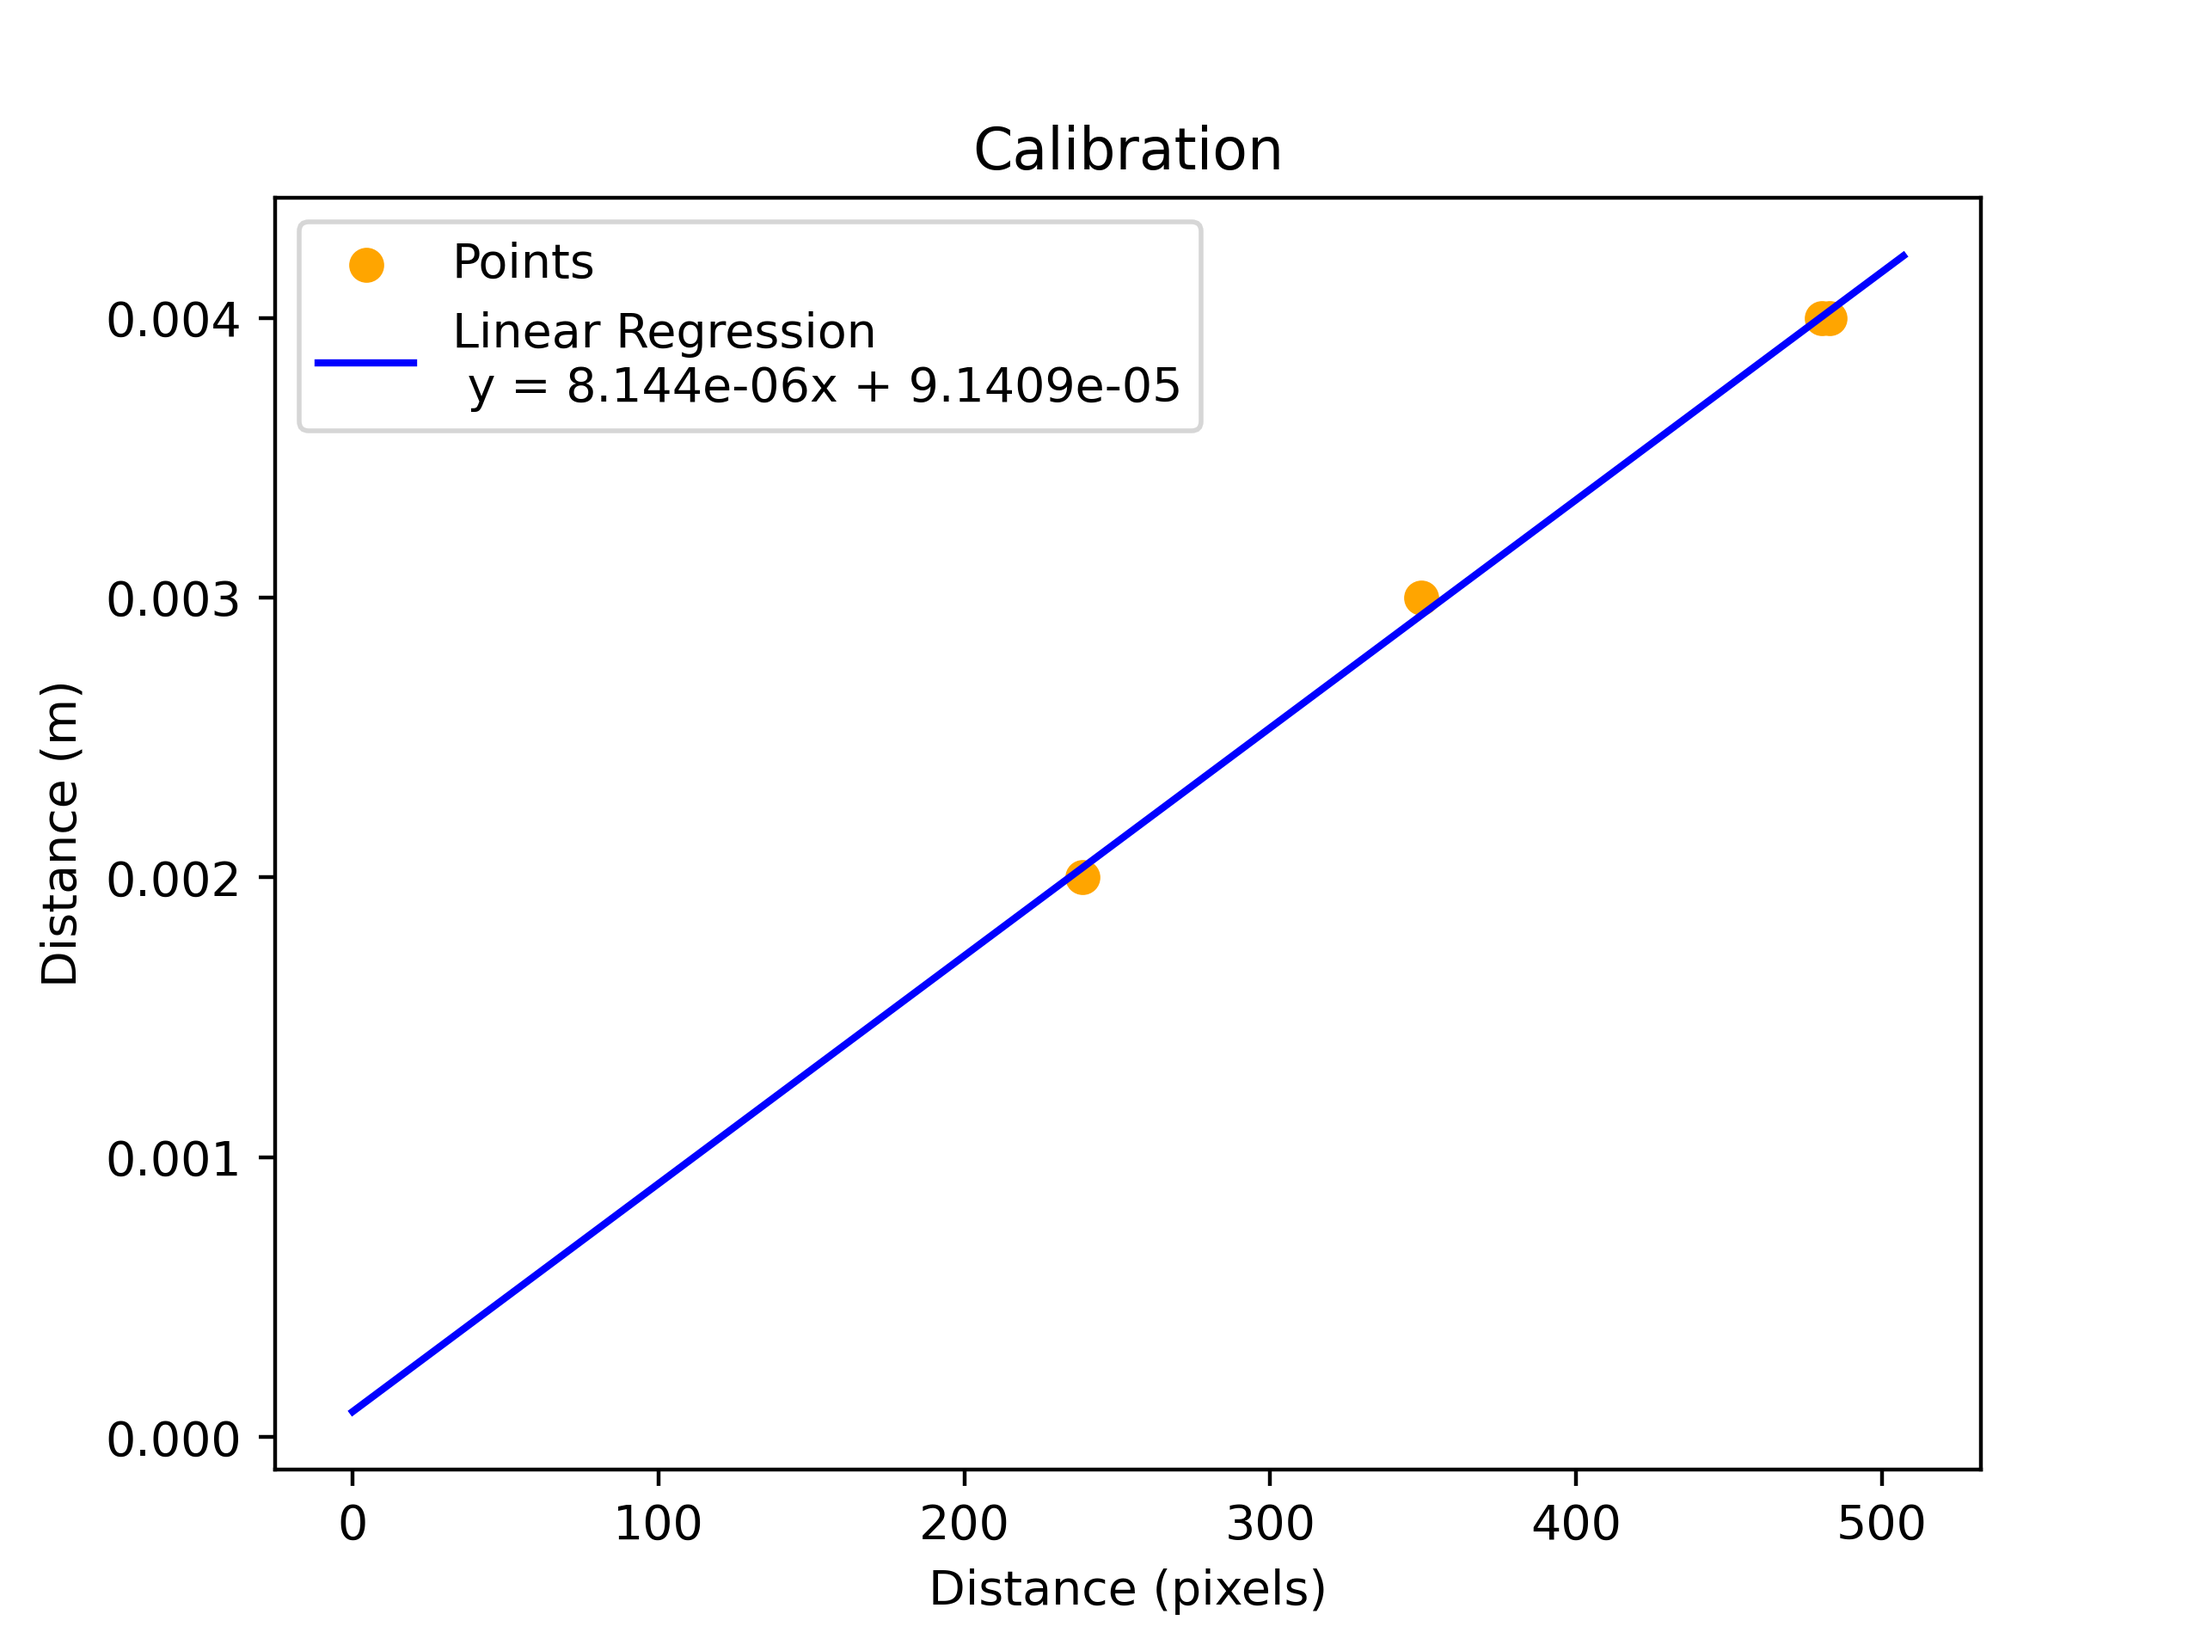
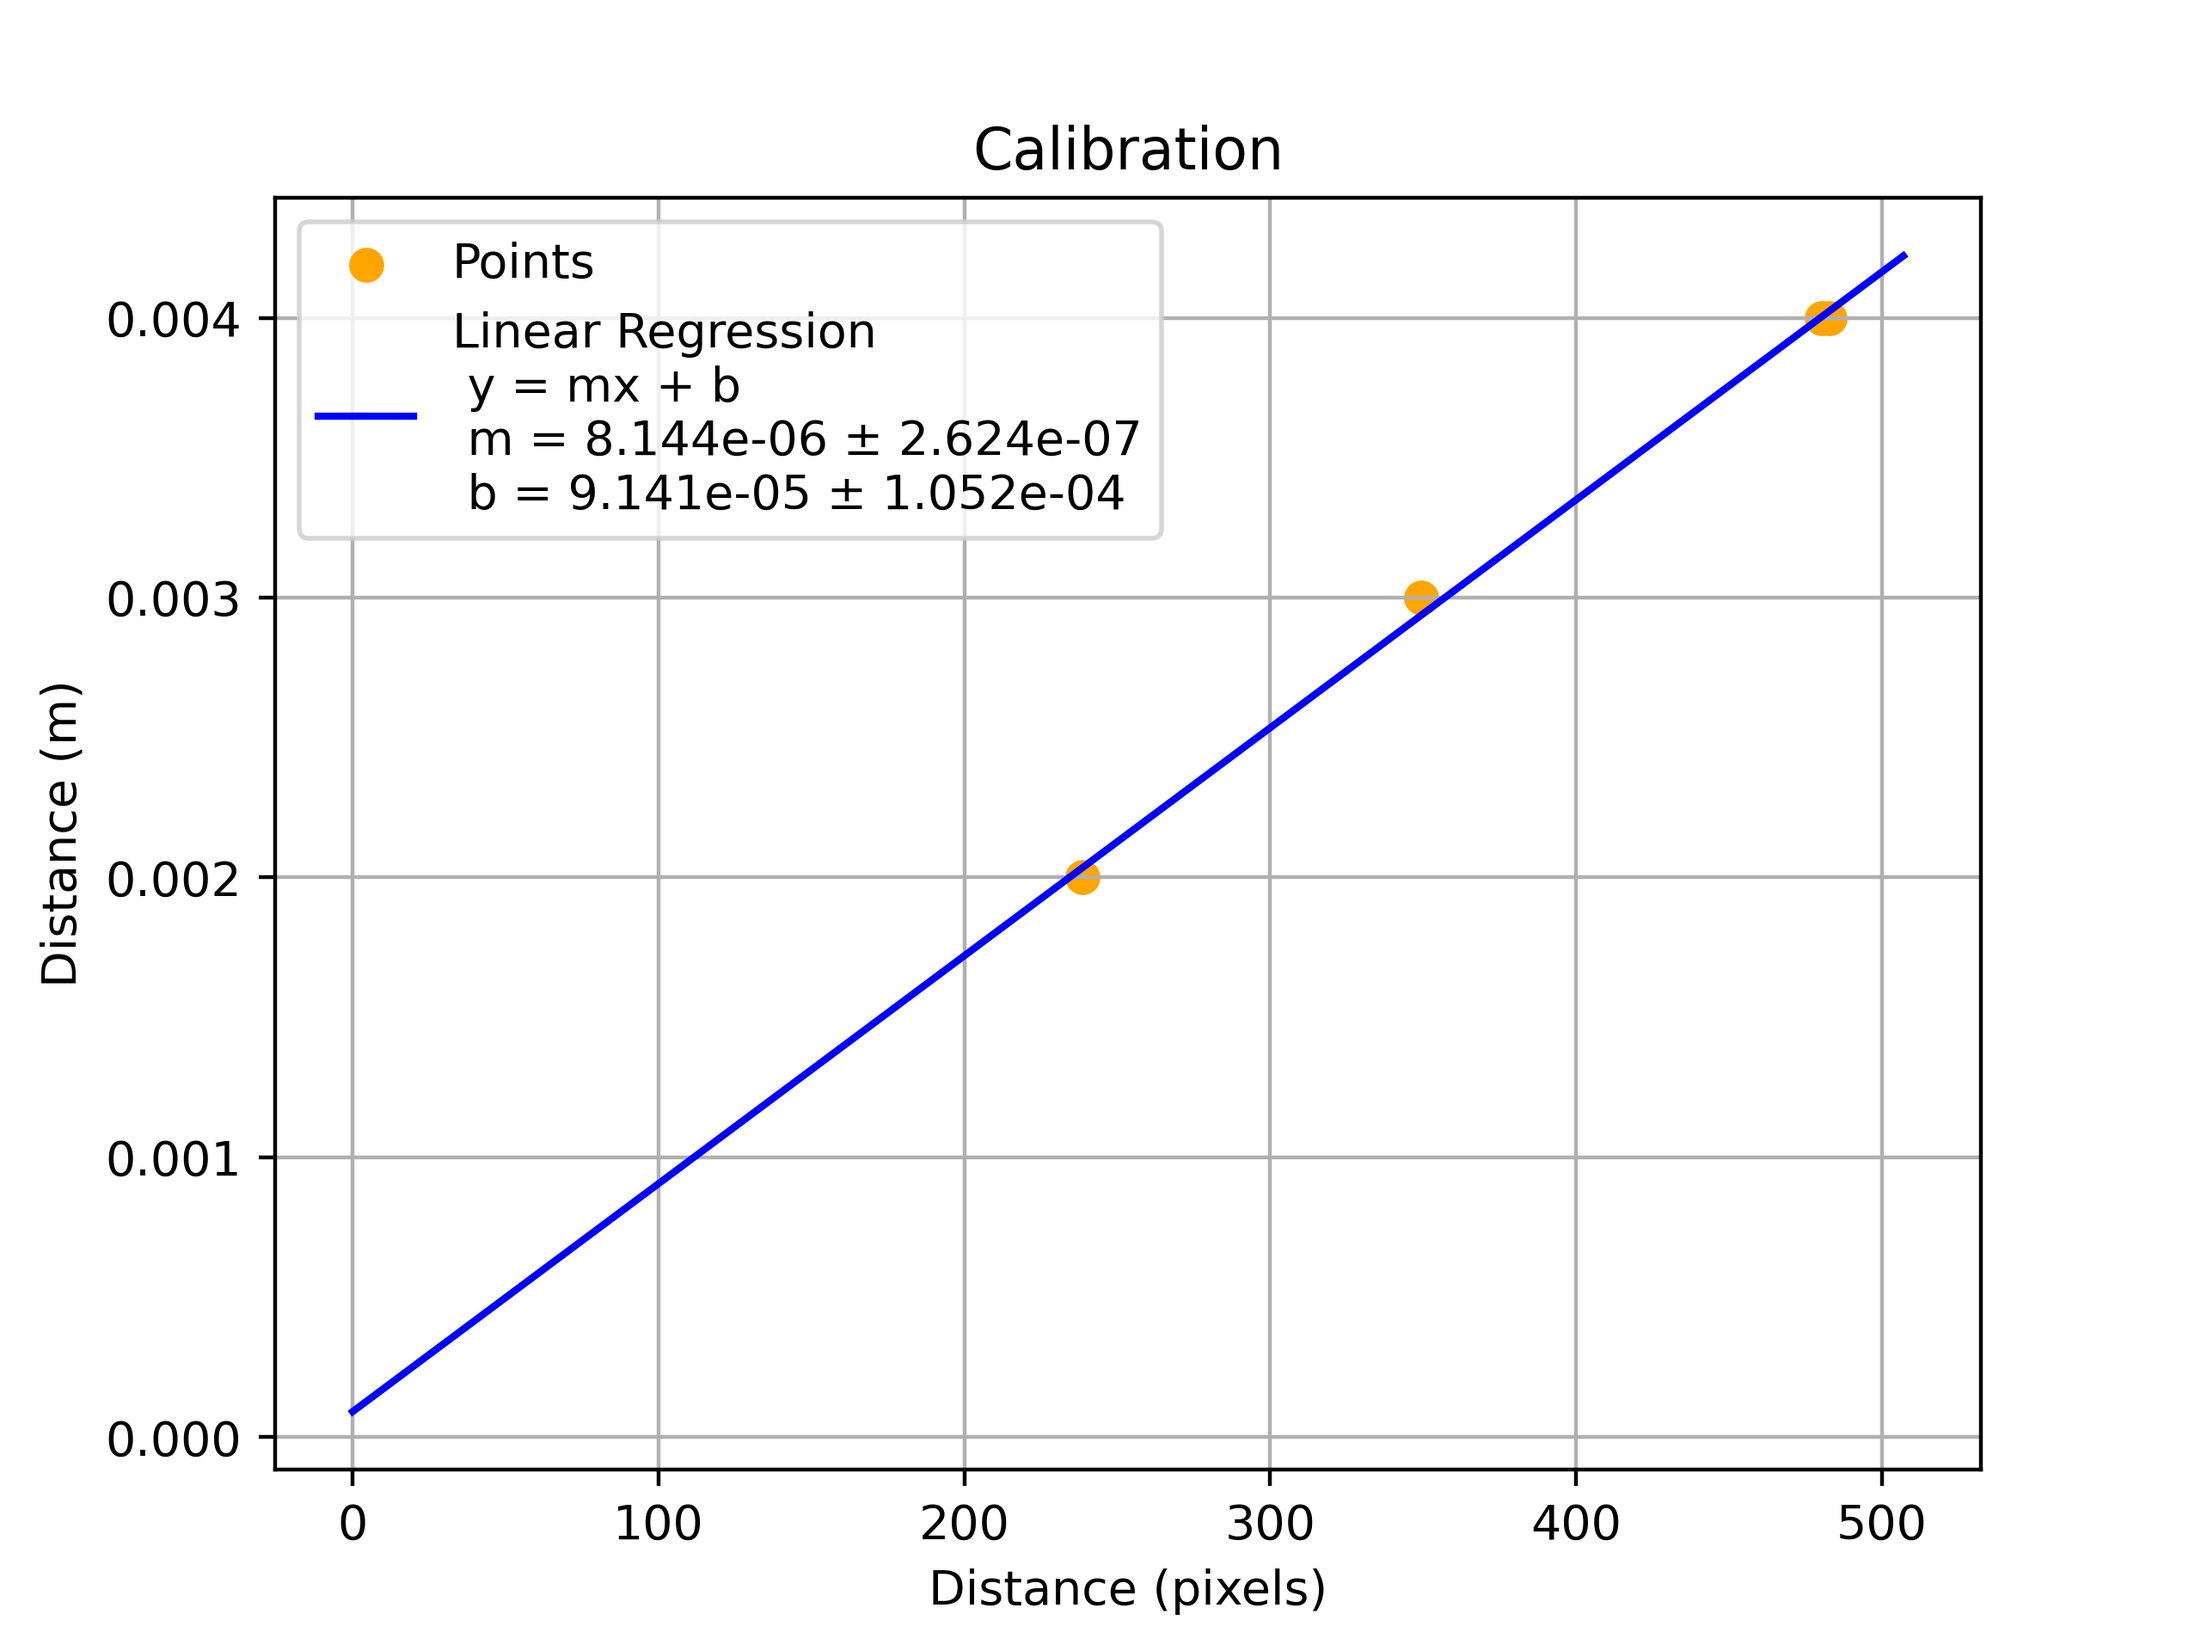
brtb

diff --git a/source/AB.py b/source/AB.py
@@ -13,8 +13,6 @@ import os
 import math
 from math import sqrt
 
-
-
 # Set up paths
 IMAGES_PATH = Path('../data')
 IMAGES_PATH.mkdir(exist_ok=True,parents=True)
@@ -231,25 +229,41 @@ def calibrator(meters: list, pixels: list) -> list:
 
     # linear regression
     m, b = np.polyfit(pixels, meters, 1)
-    er
+    # Residuals (difference between observed and predicted values)
+    residuals = meters - (m * np.array(pixels) + b)
+
+    # Number of observations
+    n = len(pixels)
+
+    # Standard deviation of the residuals
+    residual_std = np.sqrt(np.sum(residuals**2) / (n - 2))  # n - 2 for degrees of freedom (2 parameters: slope and intercept)
+
+    # Standard error of the regression slope (m) and intercept (b)
+    std_error_slope = residual_std / np.sqrt(np.sum((pixels - np.mean(pixels))**2))
+    std_error_intercept = residual_std * np.sqrt(1/n + (np.mean(pixels)**2) / np.sum((pixels - np.mean(pixels))**2))
+
+    print("Standard error of the slope (m):", std_error_slope)
+    print("Standard error of the intercept (b):", std_error_intercept)
     # print('m: ', m)
     # print('b: ', b)
 
     # plot the line
     x_values = np.linspace(0, 1.05*max(pixels), 100)
     y_values = m*x_values + b
-    plt.plot(x_values, y_values, color='blue', label='Linear Regression \n y = ' + str(m.round(9)) + 'x + ' + str(b.round(9)))
+    plt.plot(x_values, y_values, color='blue', label=f'Linear Regression \n y = mx + b \n m = {m:.3e} ± {std_error_slope:.3e}\n b = {b:.3e} ± {std_error_intercept:.3e}')
+    # plt.plot(x_values, y_values, color='blue', label='Linear Regression \n y = mx + b \n m = ' + str(m.round(9)) + ' ± ' + str(std_error_slope.round(9)) + '\n b = ' + str(b.round(9)) + ' ± ' + str(std_error_intercept.round(9)))
 
 
     plt.title('Calibration')
     plt.xlabel('Distance (pixels)')
     plt.ylabel('Distance (m)')
     plt.legend()
+    plt.grid(True)
     plt.savefig(f'../graphs/regr_calibration.png', dpi=400)
     # plt.show()
     plt.close()
 
-    return [m, b]
+    return [m, b, std_error_slope, std_error_intercept] # = [m, b, error_m, error_b]
 
 if __name__ == '__main__':
 
@@ -271,7 +285,7 @@ if __name__ == '__main__':
     distance_ABCD = [abs(mean[0, 0] - center[0]), abs(mean[1, 1] - center[1]), abs(mean[2, 1] - center[1]), abs(mean[3, 0] - center[0])]
     print('\n Distance of each point considering A and D as being located in the x axis and B and C in the y axis:')
     for i, label in enumerate(['A', 'B', 'C', 'D']):
-        print(label + ': ' + str(distance_ABCD[i]))
+        print(label + ': ' + str(distance_ABCD[i]) +  ' ± ' + str(1) + ' pixels')
 
     # Calibration
     calibration_2mm = calibrate_image('craveira2mm_AB_5aula', intensity_limit=3500)[0]
@@ -283,7 +297,7 @@ if __name__ == '__main__':
     mm = [2, 3, 4, 4]
     m = [0.002, 0.003, 0.004, 0.004]
 
-    regression = calibrator(m, pixels) # = [m, b]
+    regression = calibrator(m, pixels) # = [m, b, error_m, error_b]
     os.system('../graphs/calibraton.txt')
     with open('../graphs/calibraton.txt', 'w') as f:
         f.write('m: ' + str(regression[0]) + '\n')
@@ -293,34 +307,61 @@ if __name__ == '__main__':
     
     
     print('\n Linear Regression: y = ' + str(regression[0].round(9)) + 'x + ' + str(regression[1].round(9)))
+    print(f'm = {regression[0]:.3e} ± {regression[2]:.3e}')
+    print(f'b = {regression[1]:.3e} ± {regression[3]:.3e}')
     calibrated_value = lambda x: abs(float(regression[0]) * float(x) + float(regression[1]))
+    error_calib_value = lambda x: abs(x) * regression[2] + abs(regression[0]) + regression[3]
 
     # print all not calibrated and then calibrated values for distances A, B, C and D
     print('\n Distances A, B, C and D Calibrated:')
     for i, label in enumerate(['A', 'B', 'C', 'D']):
-        print(label + ': ' + str(distance_ABCD[i]) + ' pixels' + '   calibrated: ' + str(calibrated_value(distance_ABCD[i])) + ' m')
+        # print(label + f': {distance_ABCD[i]:.0f} ± {1:.0f} pixels' + f'   calibrated: {calibrated_value(distance_ABCD[i]):.3e} ± {error_calib_value(distance_ABCD[i]):.3e} m')
+        # in milimeters
+        print(label + f': {distance_ABCD[i]:.0f} ± {1:.0f} pixels' + f'   calibrated: {(calibrated_value(distance_ABCD[i])*10**3):.3f} ± {(error_calib_value(distance_ABCD[i])*10**3):.3f} mm')
 
     f=0.2475 # focal length of the lens in m
     wavelength=633*10**(-9) # wavelength of the laser in m
 
     # array with the calibrated values of the distances in m
-    distance_ABCD_m = [calibrated_value(distance) for distance in distance_ABCD]
-    print('\n Distances A, B, C and D Calibrated in m:')
-    for i, label in enumerate(['A', 'B', 'C', 'D']):
-        print(label + ': ' + str(distance_ABCD_m[i]) + ' m')
+    distance_ABCD_m = [(calibrated_value(distance), error_calib_value(distance)) for distance in distance_ABCD]
+
 
     # compute the spatial frequencies
+    spacial_frequency_x_1 = distance_ABCD_m[0][0]/(f*wavelength) # distance of A to the center
+    error_spacial_frequency_x_1 = distance_ABCD_m[0][1]/(f*wavelength)/spacial_frequency_x_1
+    spacial_frequency_x_2 = distance_ABCD_m[3][0]/(f*wavelength) # distance of D to the center
+    error_spacial_frequency_x_2 = distance_ABCD_m[3][1]/(f*wavelength)/spacial_frequency_x_2
+    spacial_frequency_y_1 = distance_ABCD_m[1][0]/(f*wavelength) # distance of B to the center
+    error_spacial_frequency_y_1 = distance_ABCD_m[1][1]/(f*wavelength)/spacial_frequency_y_1
+    spacial_frequency_y_2 = distance_ABCD_m[2][0]/(f*wavelength) # distance of C to the center
+    error_spacial_frequency_y_2 = distance_ABCD_m[2][1]/(f*wavelength)/spacial_frequency_y_2
 
-    spacial_frequency_x_1 = distance_ABCD_m[0]/(f*wavelength) # distance of A to the center
-    spacial_frequency_x_2 = distance_ABCD_m[3]/(f*wavelength) # distance of D to the center
-    spacial_frequency_y_1 = distance_ABCD_m[1]/(f*wavelength) # distance of B to the center
-    spacial_frequency_y_2 = distance_ABCD_m[2]/(f*wavelength) # distance of C to the center
-
+    # the error of the spatial frequency is the error of the distance divided by f*wavelength
     print('\n Spatial Frequencies:')
-    print('Spatial Frequency along X for point A: ' + str(spacial_frequency_x_1))
-    print('Spatial Frequency along X for point D: ' + str(spacial_frequency_x_2))
-    print('Spatial Frequency along Y for point B: ' + str(spacial_frequency_y_1))
-    print('Spatial Frequency along Y for point C: ' + str(spacial_frequency_y_2))
+    print('Spatial Frequency along X for point A: ' + f'{spacial_frequency_x_1:.2f} m^-1' + ' ± ' + f'{error_spacial_frequency_x_1:.2f} %')
+    print('Spatial Frequency along X for point D: ' + f'{spacial_frequency_x_2:.2f} m^-1' + ' ± ' + f'{error_spacial_frequency_x_2:.2f} %')
+    print('Spatial Frequency along Y for point B: ' + f'{spacial_frequency_y_1:.2f} m^-1' + ' ± ' + f'{error_spacial_frequency_y_1:.2f} %')
+    print('Spatial Frequency along Y for point C: ' + f'{spacial_frequency_y_2:.2f} m^-1' + ' ± ' + f'{error_spacial_frequency_y_2:.2f} %')
+
+    frequancy_x = (spacial_frequency_x_1 + spacial_frequency_x_2)/2
+    error_frequancy_x = (error_spacial_frequency_x_1 + error_spacial_frequency_x_2)/2
+    frequancy_y = (spacial_frequency_y_1 + spacial_frequency_y_2)/2
+    error_frequancy_y = (error_spacial_frequency_y_1 + error_spacial_frequency_y_2)/2
+    print('Spatial Frequency along X: ' f'{(frequancy_x):.2f} m^-1' + ' ± ' + f'{(error_frequancy_x):.2f} %')
+    print('Spatial Frequency along Y: ' f'{(frequancy_y):.2f} m^-1' + ' ± ' + f'{(error_frequancy_y):.2f} %')
+
+    print('\n Separation of the fringes:')
+    separation_letterB = 1/(frequancy_y) 
+    error_separation_B = error_frequancy_y/(frequancy_y**2)
+    separation_letterA = 1/(frequancy_x)
+    error_separation_A = error_frequancy_x/(frequancy_x**2)
+
+    print('Separation of the fringes along X: ' + f'{(separation_letterA):.3e} ± {(error_separation_A):.3e} m')
+    print('Separation of the fringes along Y: ' + f'{(separation_letterB):.3e} ± {(error_separation_B):.3e} m')
+
+    print('\n Separation of the fringes in micrometers:')
+    print('Separation of the fringes along X: ' + f'{(separation_letterA*10**6):.5f} ± {(error_separation_A*10**6):.5f} μm')
+    print('Separation of the fringes along Y: ' + f'{(separation_letterB*10**6):.5f} ± {(error_separation_B*10**6):.5f} μm')
 
 
 
